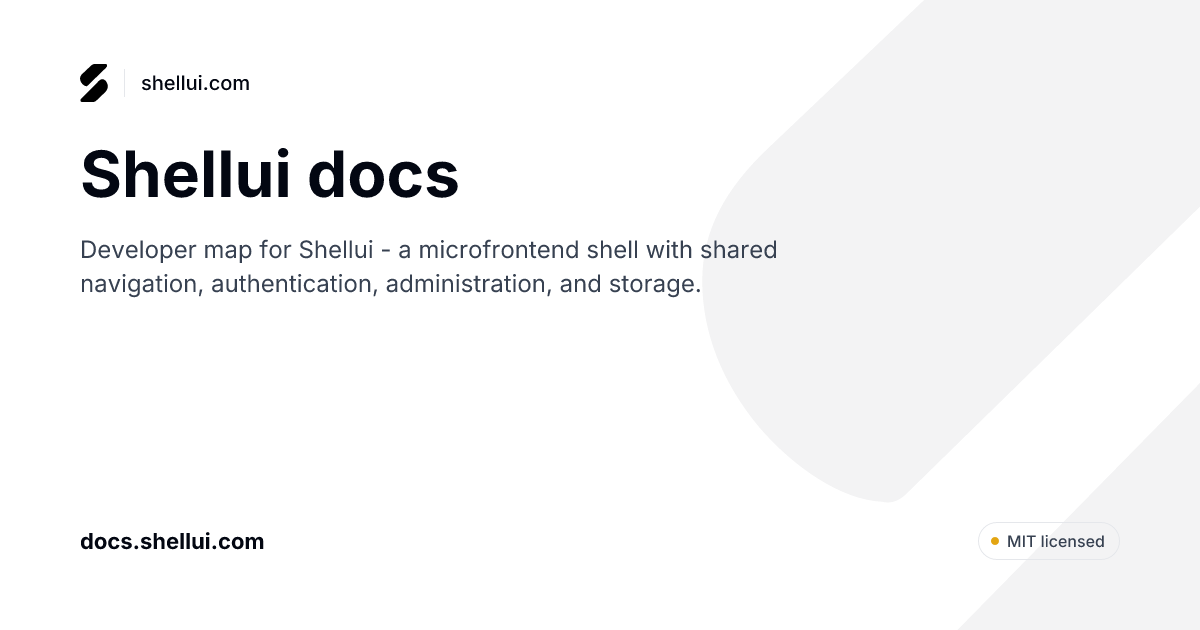
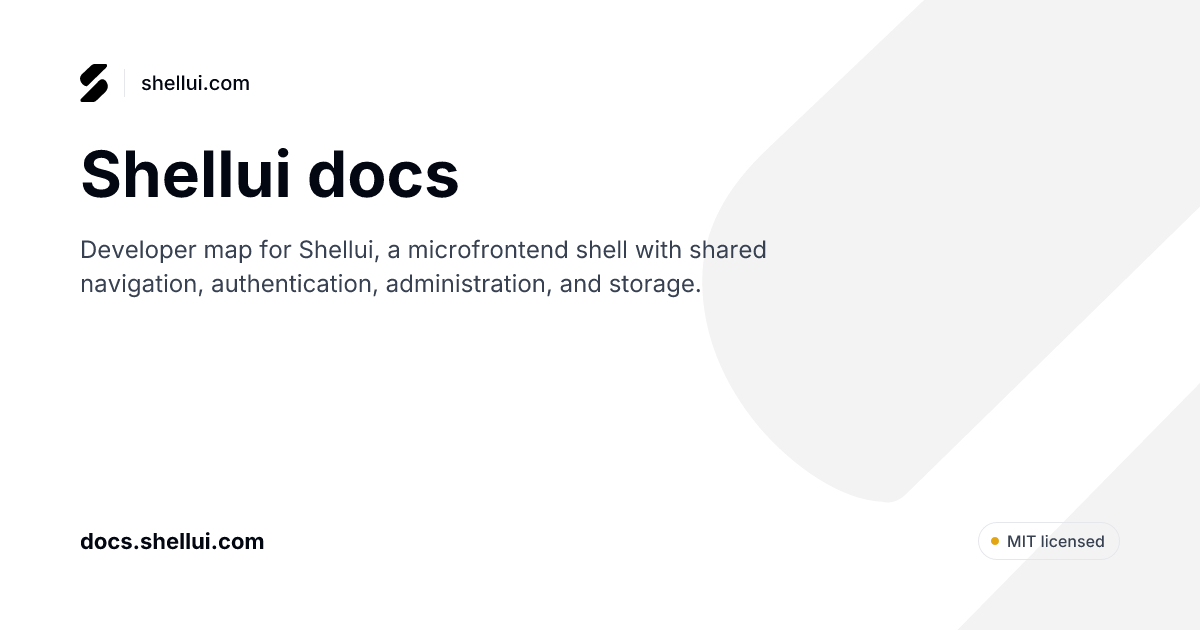
fix(docs): drop hyphen dashes from social card copy
Edit titles and descriptions in the docs source so meta tags and cards
match. Page cards label the top left Shellui docs. The default card
keeps shellui.com.

Changed region(s): [[0.3083, 0.3619, 0.6475, 0.4222]]

diff --git a/tools/docusaurus/og/card.js b/tools/docusaurus/og/card.js
@@ -146,10 +146,15 @@ function h(type, props, ...children) {
 }
 
 /**
- * @param {{eyebrow?: string | null, title: string, description?: string | null}} input
+ * @param {{
+ *   eyebrow?: string | null,
+ *   title: string,
+ *   description?: string | null,
+ *   brand?: string,
+ * }} input
  * @returns {Promise<Buffer>}
  */
-async function renderOgCard({eyebrow, title, description}) {
+async function renderOgCard({eyebrow, title, description, brand = 'Shellui docs'}) {
   const satoriModule = await import('satori');
   const satori = satoriModule.default;
   const {header, watermark} = loadMarks();
@@ -232,7 +237,7 @@ async function renderOgCard({eyebrow, title, description}) {
               lineHeight: '22px',
             },
           },
-          'shellui.com',
+          brand,
         ),
       ),
       h(
@@ -395,6 +400,7 @@ function renderDefaultCard() {
   return renderOgCard({
     title: DEFAULT_TITLE,
     description: readSiteDescription(),
+    brand: 'shellui.com',
   });
 }
 

diff --git a/tools/docusaurus/scripts/og-images.test.js b/tools/docusaurus/scripts/og-images.test.js
@@ -26,9 +26,12 @@ test('template copy has no dashes', () => {
 
 test('default card description is the docs home description', () => {
   const description = readSiteDescription();
-  const source = fs.readFileSync(INDEX_DOC, 'utf8');
-  assert.match(source, new RegExp(description.replace(/[.*+?^${}()|[\]\\]/g, '\\$&')));
-  assert.match(description, /microfrontend shell/);
+  assert.equal(
+    description,
+    'Developer map for Shellui, a microfrontend shell with shared navigation, authentication, administration, and storage.',
+  );
+  assert.match(fs.readFileSync(INDEX_DOC, 'utf8'), /Developer map for Shellui, a microfrontend shell/);
+  assert.equal(/\s-\s/.test(description), false);
 });
 
 test('permalinks follow the docs routes', () => {

diff --git a/tools/docusaurus/scripts/generate-og-default.js b/tools/docusaurus/scripts/generate-og-default.js
@@ -2,14 +2,10 @@
 // @ts-check
 const fs = require('fs');
 const path = require('path');
-const {DEFAULT_TITLE, readSiteDescription} = require('../og/copy');
-const {renderOgCard} = require('../og/card');
+const {renderDefaultCard} = require('../og/card');
 
 async function main() {
-  const png = await renderOgCard({
-    title: DEFAULT_TITLE,
-    description: readSiteDescription(),
-  });
+  const png = await renderDefaultCard();
   const dest = path.join(__dirname, '../static/img/og/default.png');
   fs.mkdirSync(path.dirname(dest), {recursive: true});
   fs.writeFileSync(dest, png);

diff --git a/tools/docusaurus/og/plugin.js b/tools/docusaurus/og/plugin.js
@@ -29,6 +29,7 @@ function ogImagesPlugin() {
             eyebrow: card.eyebrow,
             title: card.title,
             description: card.description,
+            brand: 'Shellui docs',
           }),
       }));
       jobs.push({

diff --git a/docs/index.md b/docs/index.md
@@ -1,7 +1,7 @@
 ---
 title: Shellui docs
 sidebar_label: Introduction
-description: 'Developer map for Shellui - a microfrontend shell with shared navigation, authentication, administration, and storage.'
+description: 'Developer map for Shellui, a microfrontend shell with shared navigation, authentication, administration, and storage.'
 ---
 
 Shellui is an open-source web app development platform - a microfrontend shell that wraps your application with shared navigation, authentication, storage, and administration. This site documents `@shellui/cli`, `@shellui/core`, and `@shellui/sdk` for developers who host an iframe app inside that shell.

diff --git a/docs/features/layouts.md b/docs/features/layouts.md
@@ -1,7 +1,7 @@
 ---
 title: Choose a layout
 sidebar_label: Layouts
-description: 'Set layout in shellui.config.json - sidebar, inset, fullscreen, app bar, floating, or experimental windows.'
+description: 'Set layout in shellui.config.json: sidebar, inset, fullscreen, app bar, floating, or experimental windows.'
 ---
 
 `layout` is a shell concern (`shellui.config.json`). App UI must work in sidebar, top-bar, and window modes. Default is `sidebar`. Override at runtime from **Settings → Develop → Layout** when developer features are enabled (stored in user settings, wins over config).

diff --git a/docs/features/dialogs.md b/docs/features/dialogs.md
@@ -1,7 +1,7 @@
 ---
 title: Show a dialog
 sidebar_label: Dialogs
-description: 'Call shellui.dialog for host alert and confirm dialogs - modes, labels, size, and callbacks.'
+description: 'Call shellui.dialog for host alert and confirm dialogs: modes, labels, size, and callbacks.'
 ---
 
 Alert dialogs are host chrome. Call `shellui.dialog` after `init`. On every viewport the dialog is geometrically centered with edge spacing and safe-area insets. Height hugs content.

diff --git a/docs/features/toasts.md b/docs/features/toasts.md
@@ -1,7 +1,7 @@
 ---
 title: Show a toast
 sidebar_label: Toasts
-description: 'Call shellui.toast from an iframe so the host shows a toast - types, duration, position, and actions.'
+description: 'Call shellui.toast from an iframe so the host shows a toast: types, duration, position, and actions.'
 ---
 
 Toasts are host chrome. Call `shellui.toast` after `init` so the shell renders them. Do not mount a second live region in the iframe.

diff --git a/docs/adr/0001-ai-skill.md b/docs/adr/0001-ai-skill.md
@@ -1,7 +1,7 @@
 ---
 id: ai-skill
 slug: /adr/ai-skill
-title: ADR 0001 - Official shellui skill
+title: 'ADR 0001: Official Shellui skill'
 sidebar_label: ADR 0001
 description: 'Decision record for hosting the official Agent Skill in shellui/skills, versioning, and token budget.'
 ---
